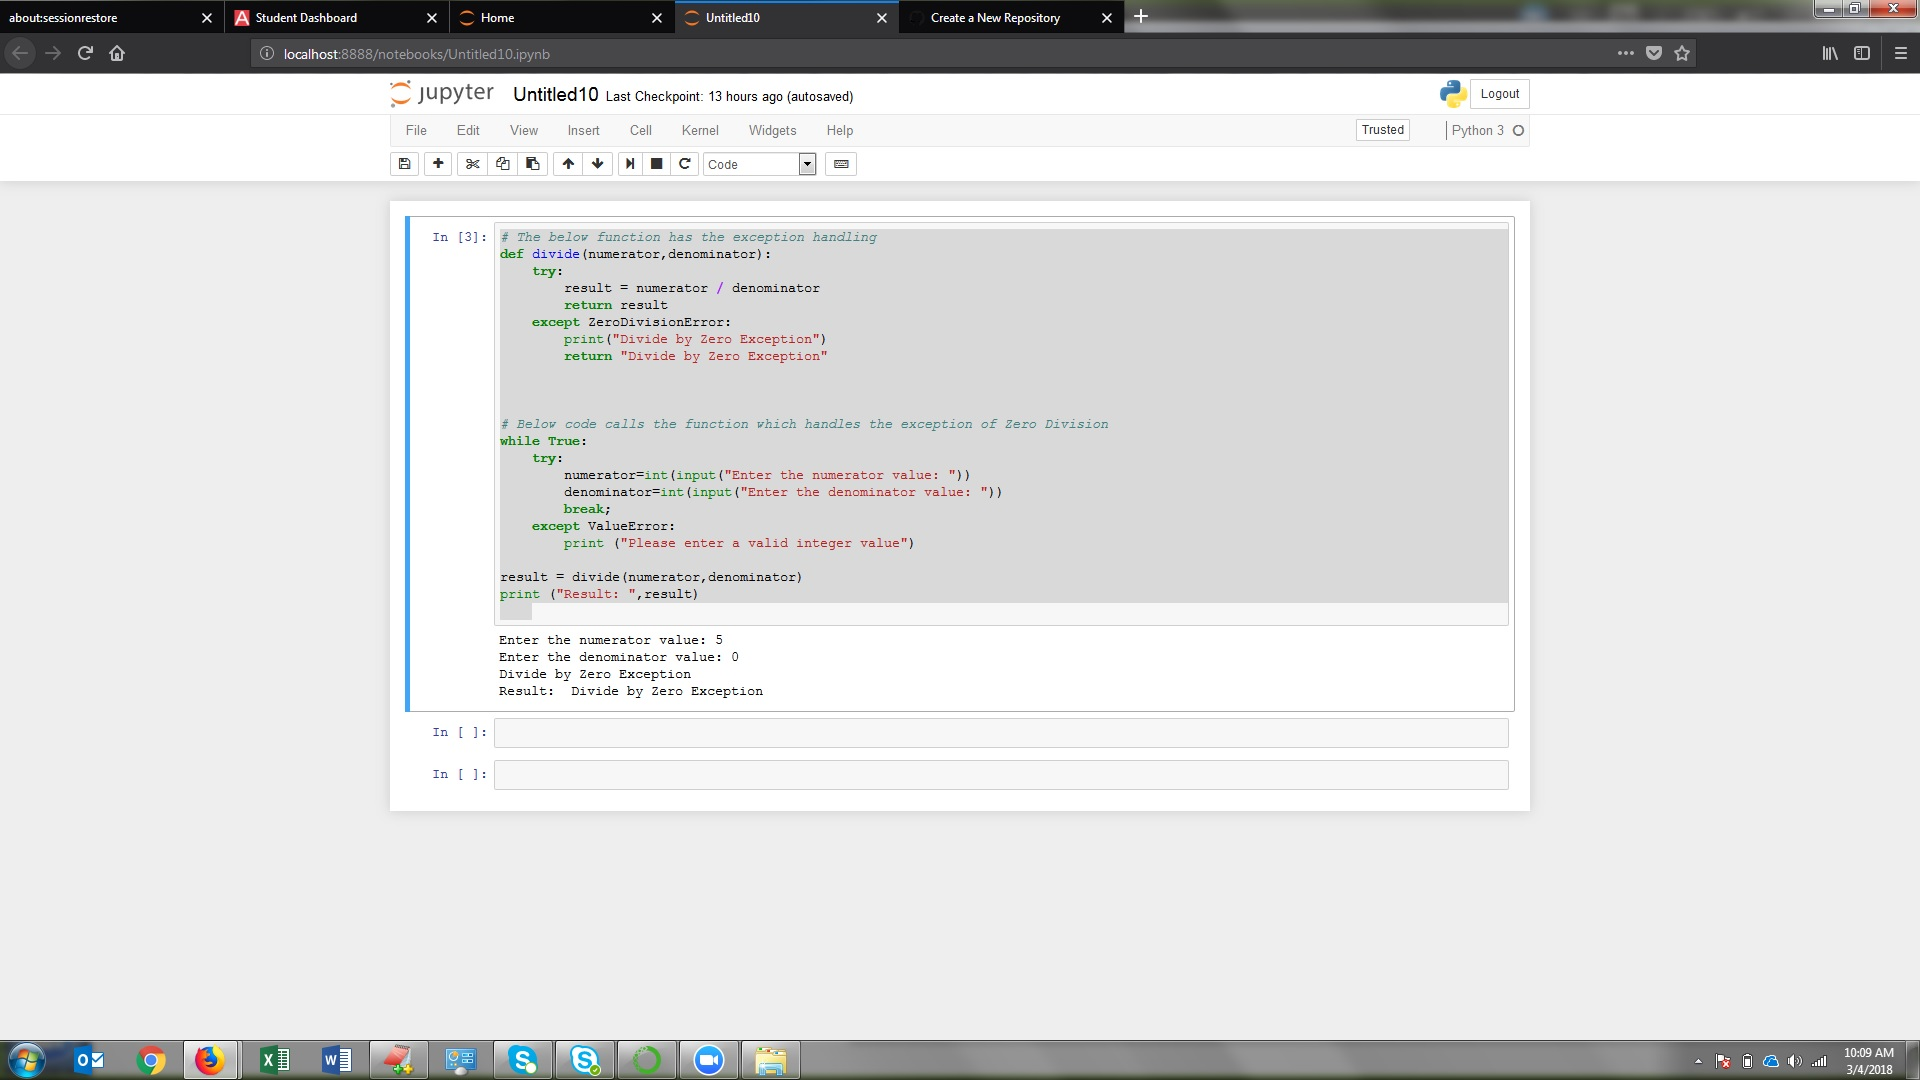
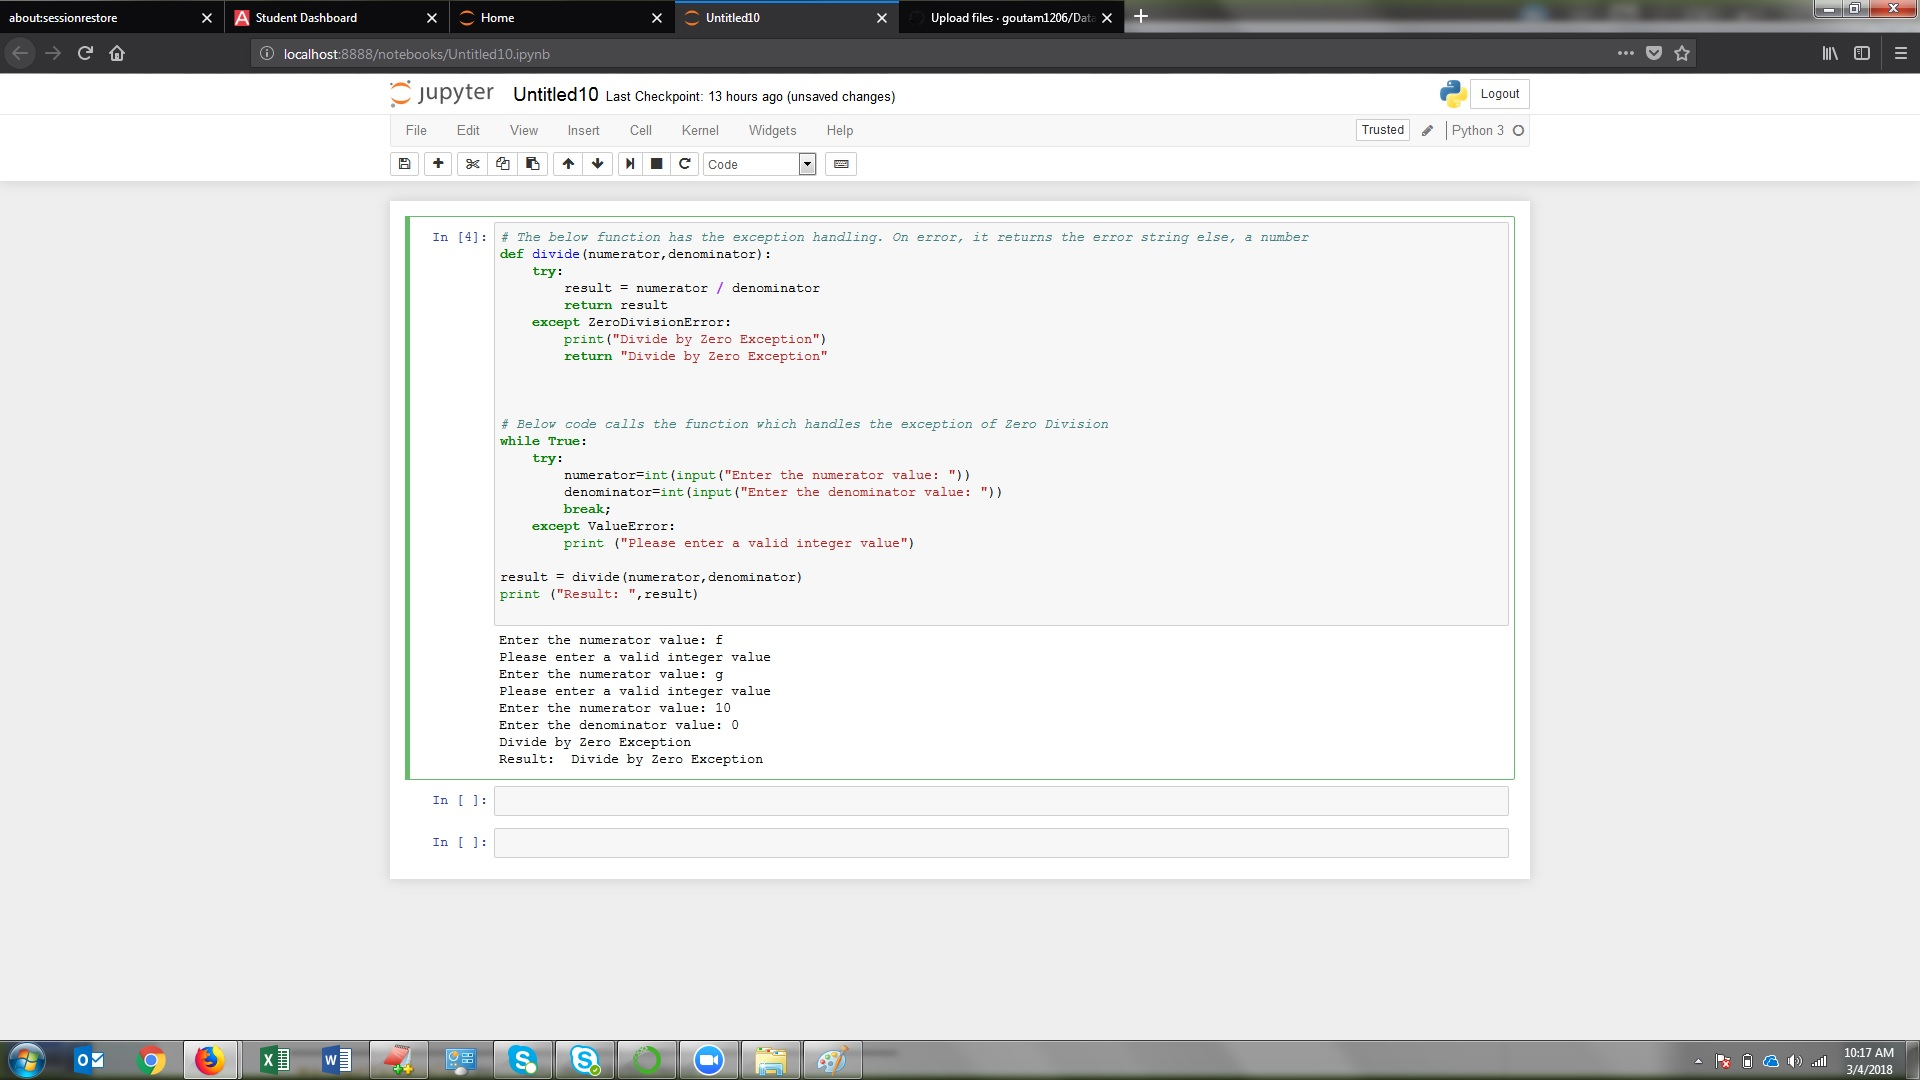
Added comment lines
Problem Statement
Problem Statement 1:
Write a function to compute 5/0 and use try/except to catch the exceptions.
NOTE: The solution shared through Github should contain the source code used 
and the screenshot of the output.

diff --git a/Assignment_5.1.py b/Assignment_5.1.py
@@ -1,4 +1,4 @@
-# The below function has the exception handling
+# The below function has the exception handling. On error, it returns the error string else, a number
 def divide(numerator,denominator):
     try:
         result = numerator / denominator
